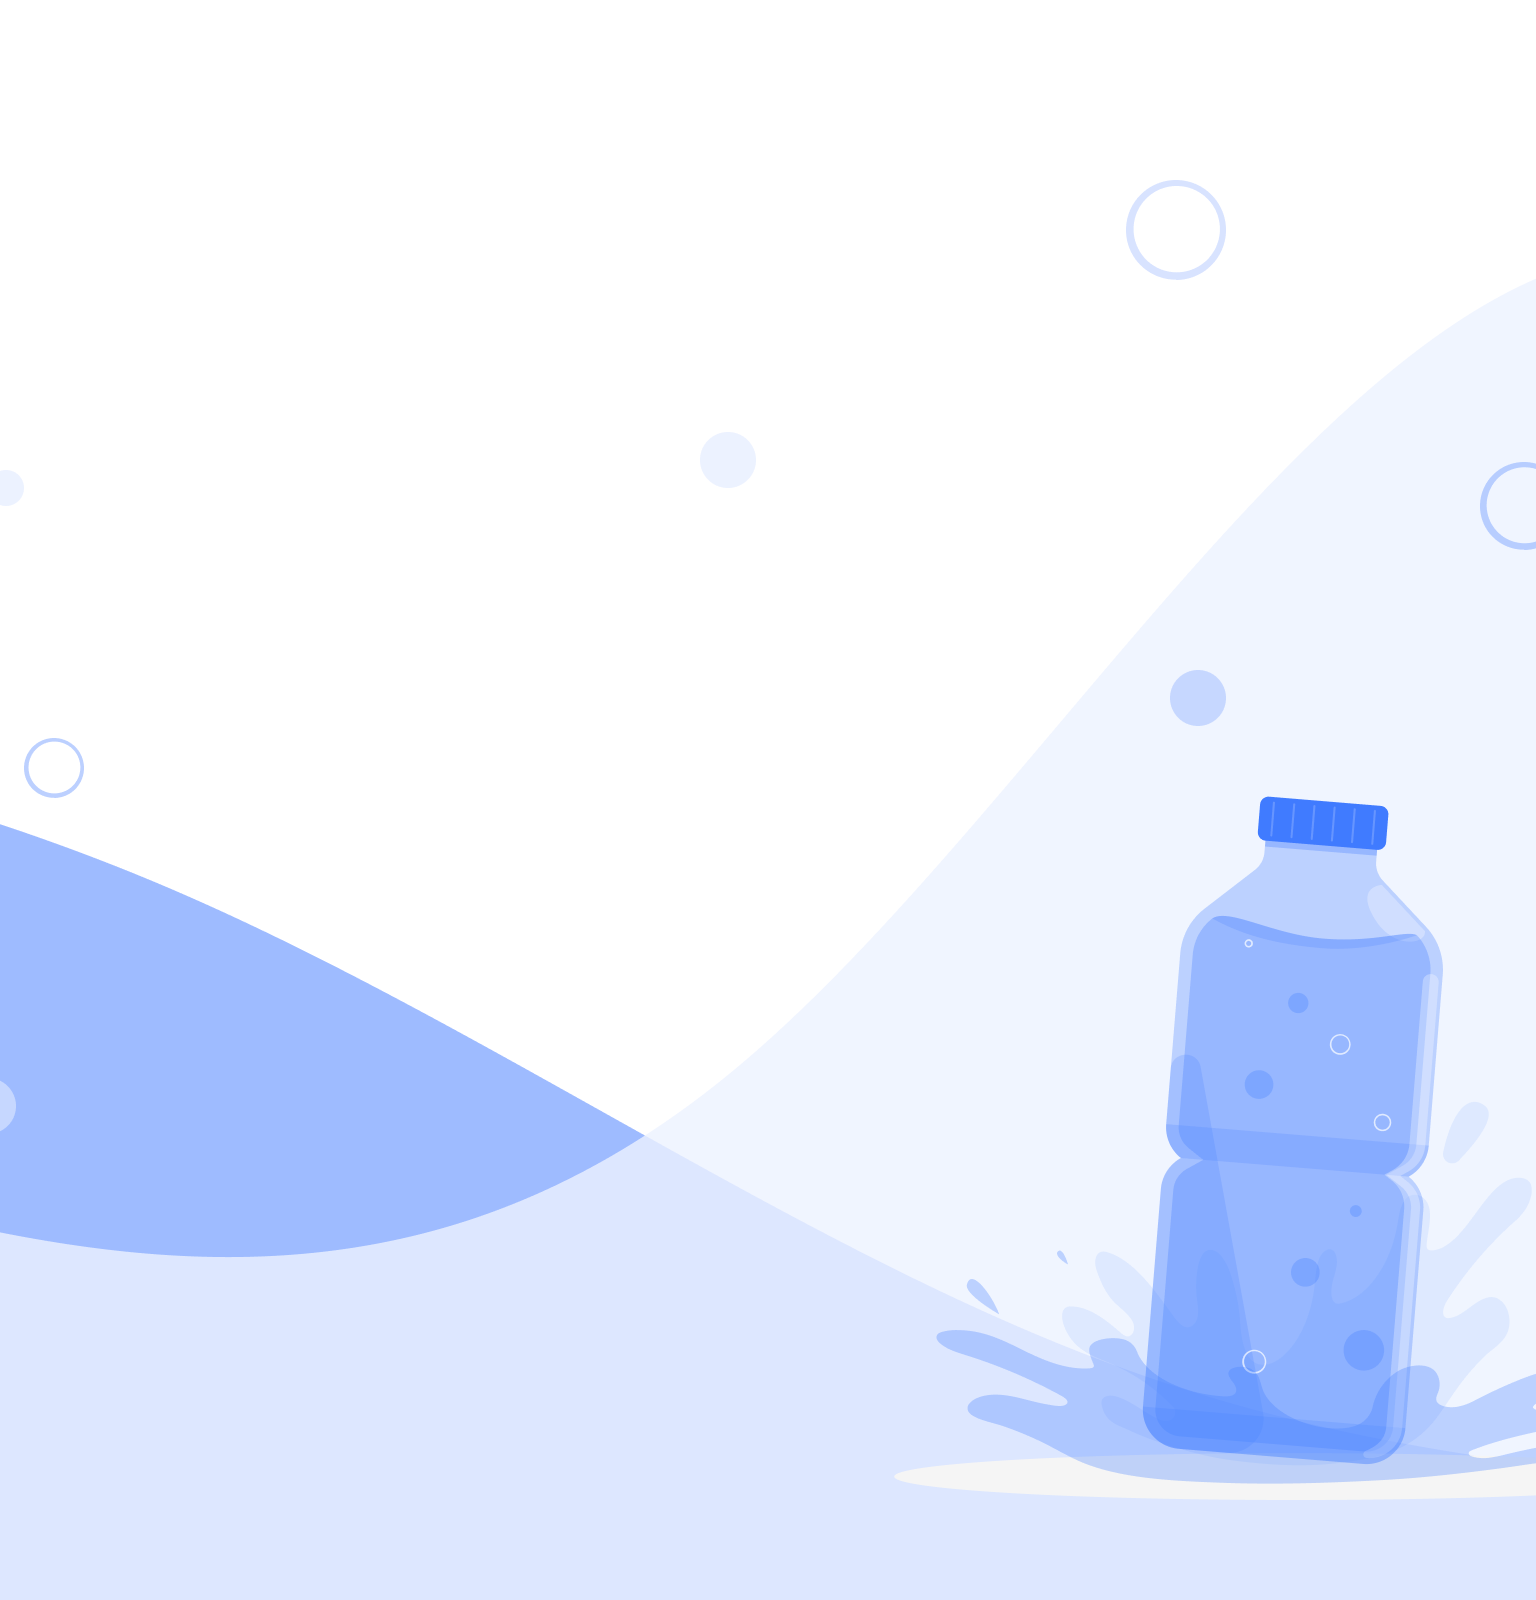
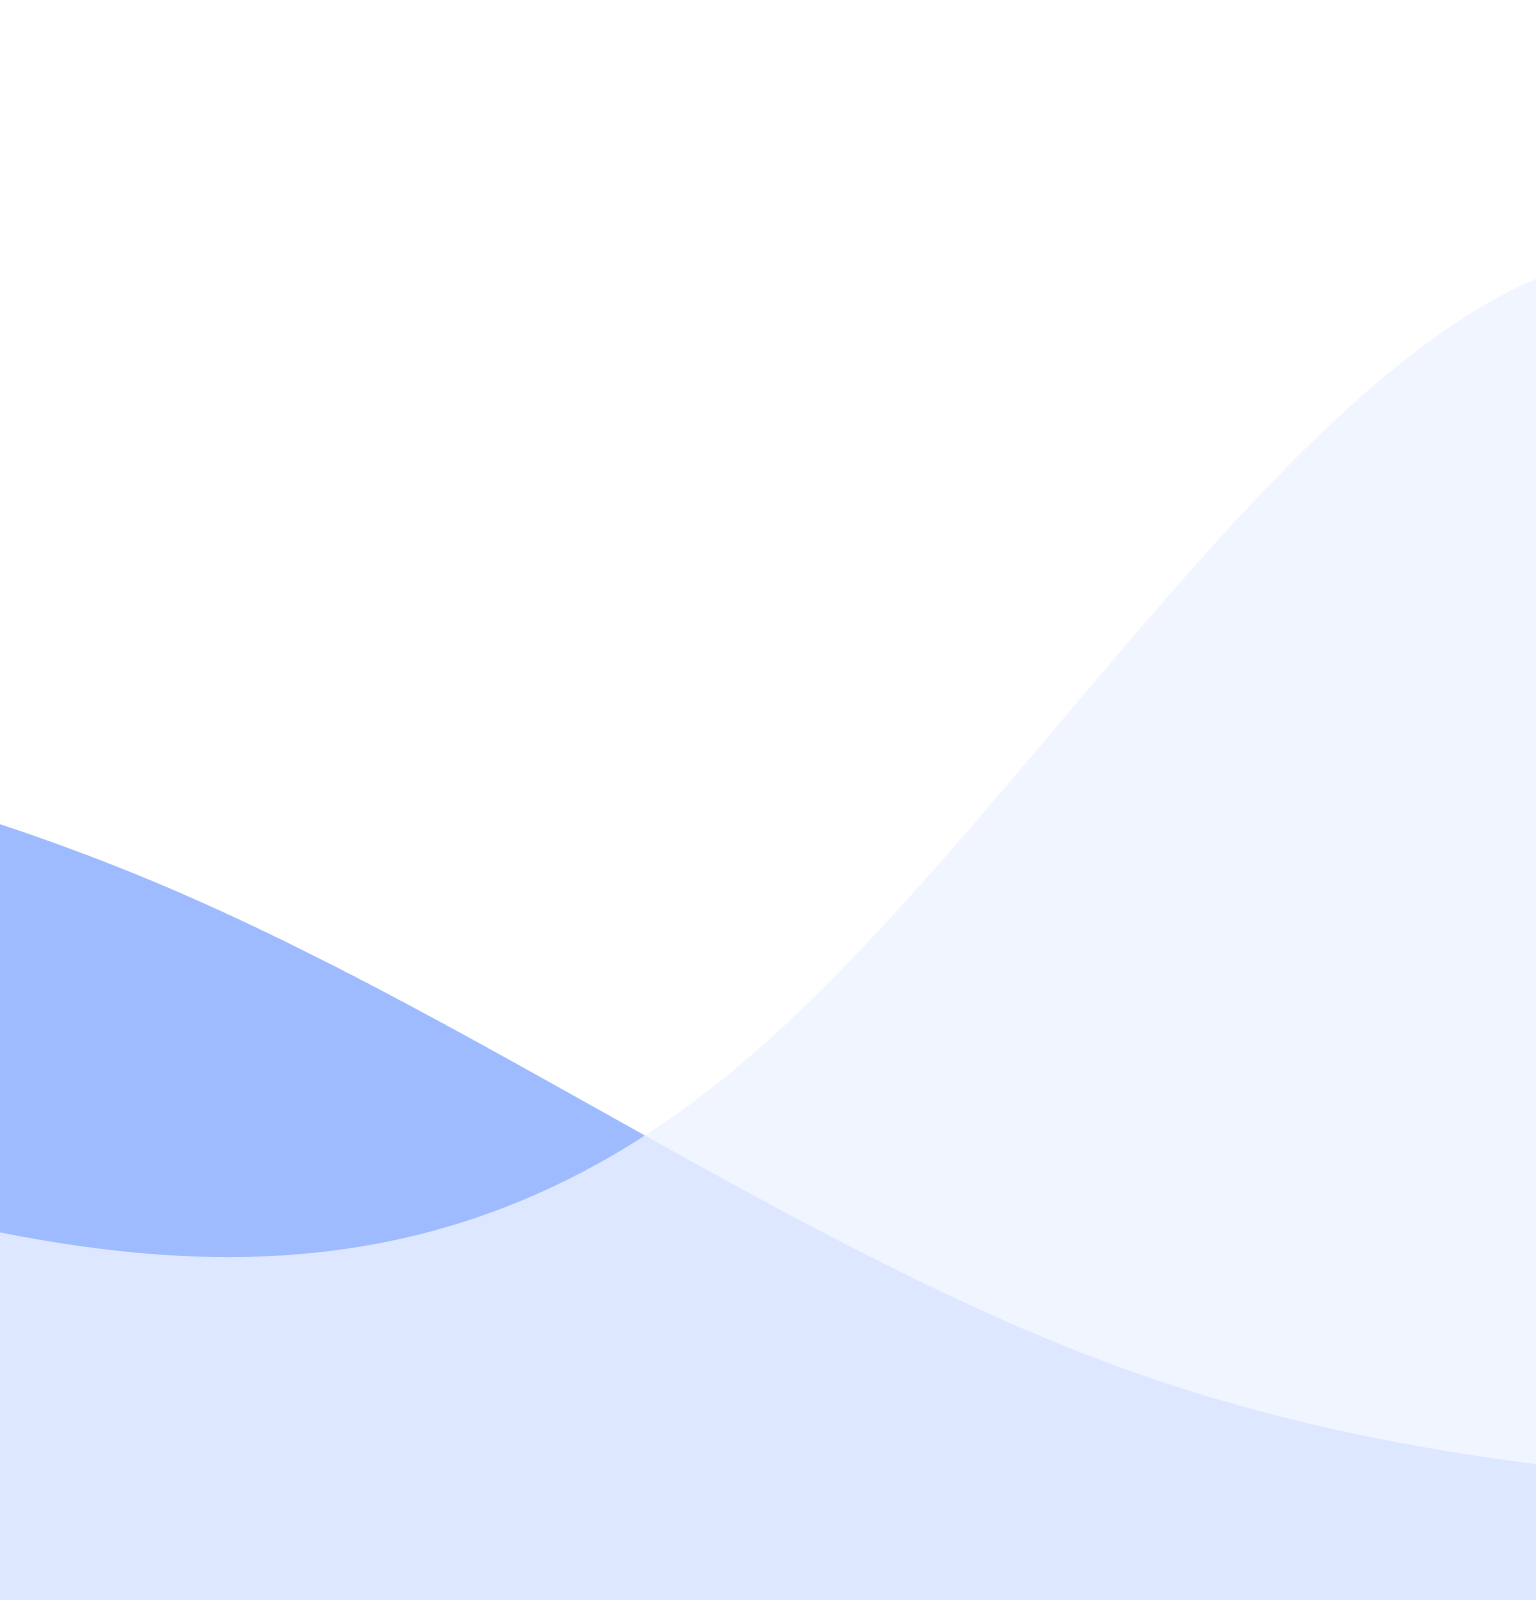
fix: welcome page

diff --git a/src/widget/hydration-statistic/todays-statistic/WaterLogList.tsx b/src/widget/hydration-statistic/todays-statistic/WaterLogList.tsx
@@ -1,6 +1,6 @@
 import { Trigger } from '@radix-ui/react-dialog';
 
-// import { reshapeTime } from '../../../shared/hooks/reshapeTime';
+import { reshapeTime } from '../../../shared/hooks/reshapeTime';
 import { Icon, ScrollAreaBar } from '../../../shared/ui';
 
 import { useTodaysHydrationStory } from './api/useTodaysHydrationStory';
@@ -10,14 +10,11 @@ import type { UserWaterEntity } from '../../../feature/hydration-form/model/cont
 export const WaterLogList = () => {
   const { data } = useTodaysHydrationStory();
 
-  // const sortedData =
-  //   data &&
-  //   [...data.list].sort((a, b) => {
-  //     console.log(typeof new Date(a.createdAt));
-  //     console.log(typeof a.createdAt);
-
-  //     // reshapeTime(b.createdAt) - reshapeTime(a.createdAt);
-  //   });
+  const sortedData =
+    data &&
+    [...data.list].sort((a, b) => {
+      return reshapeTime(b.createdAt) - reshapeTime(a.createdAt);
+    });
 
   return (
     <div className="desktop-m:mb-auto mb-6">
@@ -25,7 +22,7 @@ export const WaterLogList = () => {
       {data?.list.length === 0 ? null : (
         <ScrollAreaBar className="mb-6 max-h-[200px]">
           <ul>
-            {[].map((item: { _id: string } & UserWaterEntity) => (
+            {sortedData?.map((item: { _id: string } & UserWaterEntity) => (
               <WaterConsumptionItem key={item._id} item={item} />
             ))}
           </ul>

diff --git a/src/pages/welcome/Welcome.tsx b/src/pages/welcome/Welcome.tsx
@@ -10,13 +10,19 @@ export function Welcome() {
   return (
     <section
       className={clsx(
-        `${css.background} tablet-ms:pt-10 desktop-m:pt-20 tablet-ms:pb-[50px] desktop-m:pb-[294px] min-h-screen w-full pt-6 pb-10`,
+        `${css.background} tablet-ms:pt-10 desktop-m:pt-20 tablet-ms:pb-[50px] desktop-m:pb-[294px] relative overflow-hidden pt-6 pb-10`,
       )}
     >
+      <div
+        className={clsx(
+          `${css.bottle}`,
+          'desktop-m:hidden absolute right-0 bottom-0 z-10 h-[386px] w-[518px]',
+        )}
+      />
       <div className="desktop-m:flex desktop-m:gap-[81px] desktop-m:justify-center container">
         <div className="desktop-m:pb-0 pb-10">
           <h1 className="text-5x mb-4 font-bold">Water consumption tracker</h1>
-          <p className="text-3x mb-6 w-[197px]">
+          <p className="text-3x tablet-ms:w-full mb-6 w-[197px]">
             Record daily water intake and track
           </p>
 
@@ -45,3 +51,9 @@ export function Welcome() {
     </section>
   );
 }
+//  <div
+//    className={clsx(
+//      `${css.background}`,
+//      'absolute right-0 bottom-0 -z-20 h-auto w-full',
+//    )}
+//  />;

diff --git a/src/index.css b/src/index.css
@@ -89,6 +89,7 @@
 }
 
 .container {
+  margin: 0 auto;
   padding: 0 20px;
   max-width: 767px;
 }
@@ -116,23 +117,24 @@ body {
   font-family: 'Roboto', sans-serif;
   background-color: var(--color-white);
   color: var(--color-black);
-  background-image: url('/hero/hero-mob.png');
-  background-size: contain;
-  background-position: center center;
+  background-image: url('/bg/bg-mob.png');
+  background-size: cover;
+  background-position: top 64px center;
   background-repeat: no-repeat;
   background-attachment: fixed;
+  min-height: 100vh;
 }
 
 @media screen and (min-width: 760px) {
   body {
-    background-image: url('/hero/hero-tablet.png');
+    background-image: url('/bg/bg-tablet.png');
   }
 }
 
 @media screen and (min-width: 1020px) {
   body {
-    background-position: top center;
-    background-image: url('/hero/hero-desktop.png');
+    background-size: contain;
+    background-image: url('/bg/bg-desktop.png');
   }
 }
 
@@ -140,5 +142,5 @@ img {
   width: 100%;
   height: auto;
   display: block;
-  object-fit: contain;
+  object-fit: cover;
 }

diff --git a/src/pages/welcome/welcome.module.css b/src/pages/welcome/welcome.module.css
@@ -1,16 +1,26 @@
 .background {
   background-image: url('/hero/welcome-mobile.png');
-  background-size: cover;
+  background-size: 100% 100%;
   background-repeat: no-repeat;
   background-position: bottom;
 
   @media screen and (min-width: 768px) {
+    background-size: 100% 110%;
     background-image: url('/hero/welcome-tablet.png');
-    background-size: 100% auto;
   }
 
   @media screen and (min-width: 1440px) {
     background-image: url('/hero/welcome-desktop.png');
     background-size: contain;
+  }
+}
+
+.bottle {
+  background-size: contain;
+  background-repeat: no-repeat;
+  background-position: bottom right;
+
+  @media screen and (min-width: 768px) {
+    background-image: url('/public/bottle-tablet.png');
   }
 }

diff --git a/src/components/List.tsx b/src/components/List.tsx
@@ -1,6 +1,6 @@
 export function List() {
   return (
-    <div className="bg-light-blue tablet-ms:max-w-[494px] shadow-base h-fit w-fit rounded-s px-4 py-6">
+    <div className="bg-light-blue tablet-ms:max-w-[494px] tablet-ms:mx-0 shadow-base mx-auto h-fit w-fit rounded-s px-4 py-6">
       <p className="text-2x mb-3 font-bold">Why drink water</p>
       <ul className="text-1x flex flex-col gap-4">
         <li className="flex items-center gap-2">

diff --git a/src/widget/Header.tsx b/src/widget/Header.tsx
@@ -22,7 +22,7 @@ export function Header() {
 
   return (
     <Root open={isOpen} onOpenChange={setIsOpen}>
-      <header className="tablet-ms:pt-4 desktop:pt-3 bg-white pt-2">
+      <header className="tablet-ms:pt-4 desktop:pt-3 bg-transparent pt-2">
         <div className="container flex items-center justify-between">
           <NavLink to="/main">
             <Icon iconName="logo" className="tablet-ms:h-12 h-12 w-[102px]" />

diff --git a/src/shared/ui/BtnStepper.tsx b/src/shared/ui/BtnStepper.tsx
@@ -12,7 +12,7 @@ export const BtnStepper = ({ value, onChange }: BtnStepperProps) => {
   const increment = () => onChange(numberVal + 50);
 
   const decrement = () =>
-    numberVal >= 0 && onChange(Math.max(0, numberVal - 50));
+    numberVal >= 50 && onChange(Math.max(50, numberVal - 50));
 
   return (
     <div className="mb-6 flex items-center gap-[7px]">

diff --git a/src/shared/hooks/reshapeTime.ts b/src/shared/hooks/reshapeTime.ts
@@ -1,3 +1,3 @@
-export const reshapeTime = (time: string): Date => {
-  return new Date(time);
+export const reshapeTime = (time: string): number => {
+  return new Date(time).getTime();
 };
